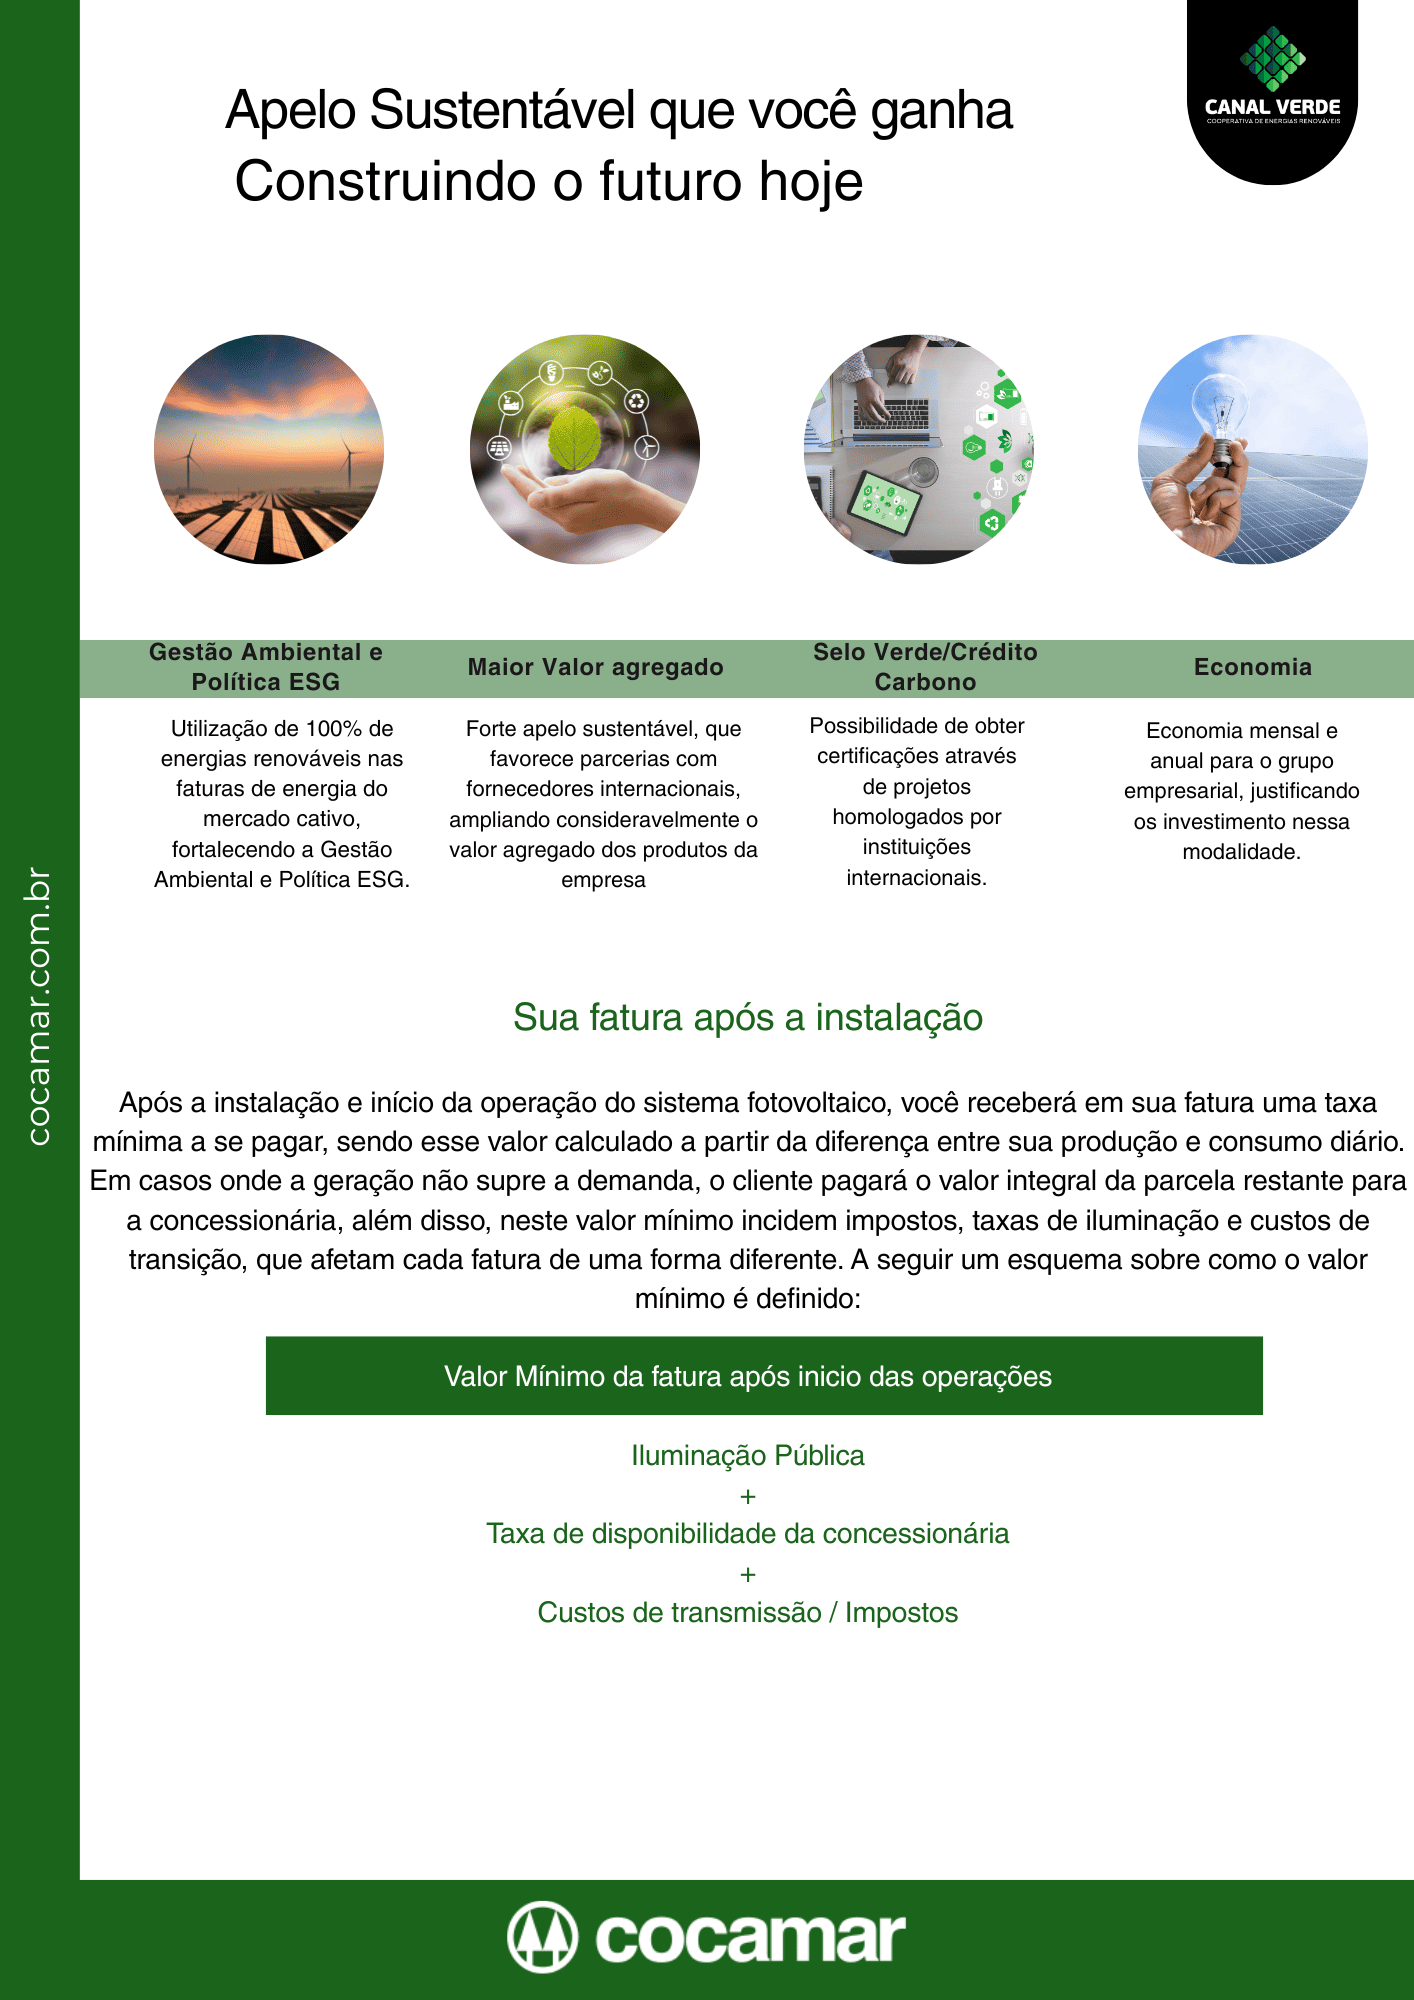
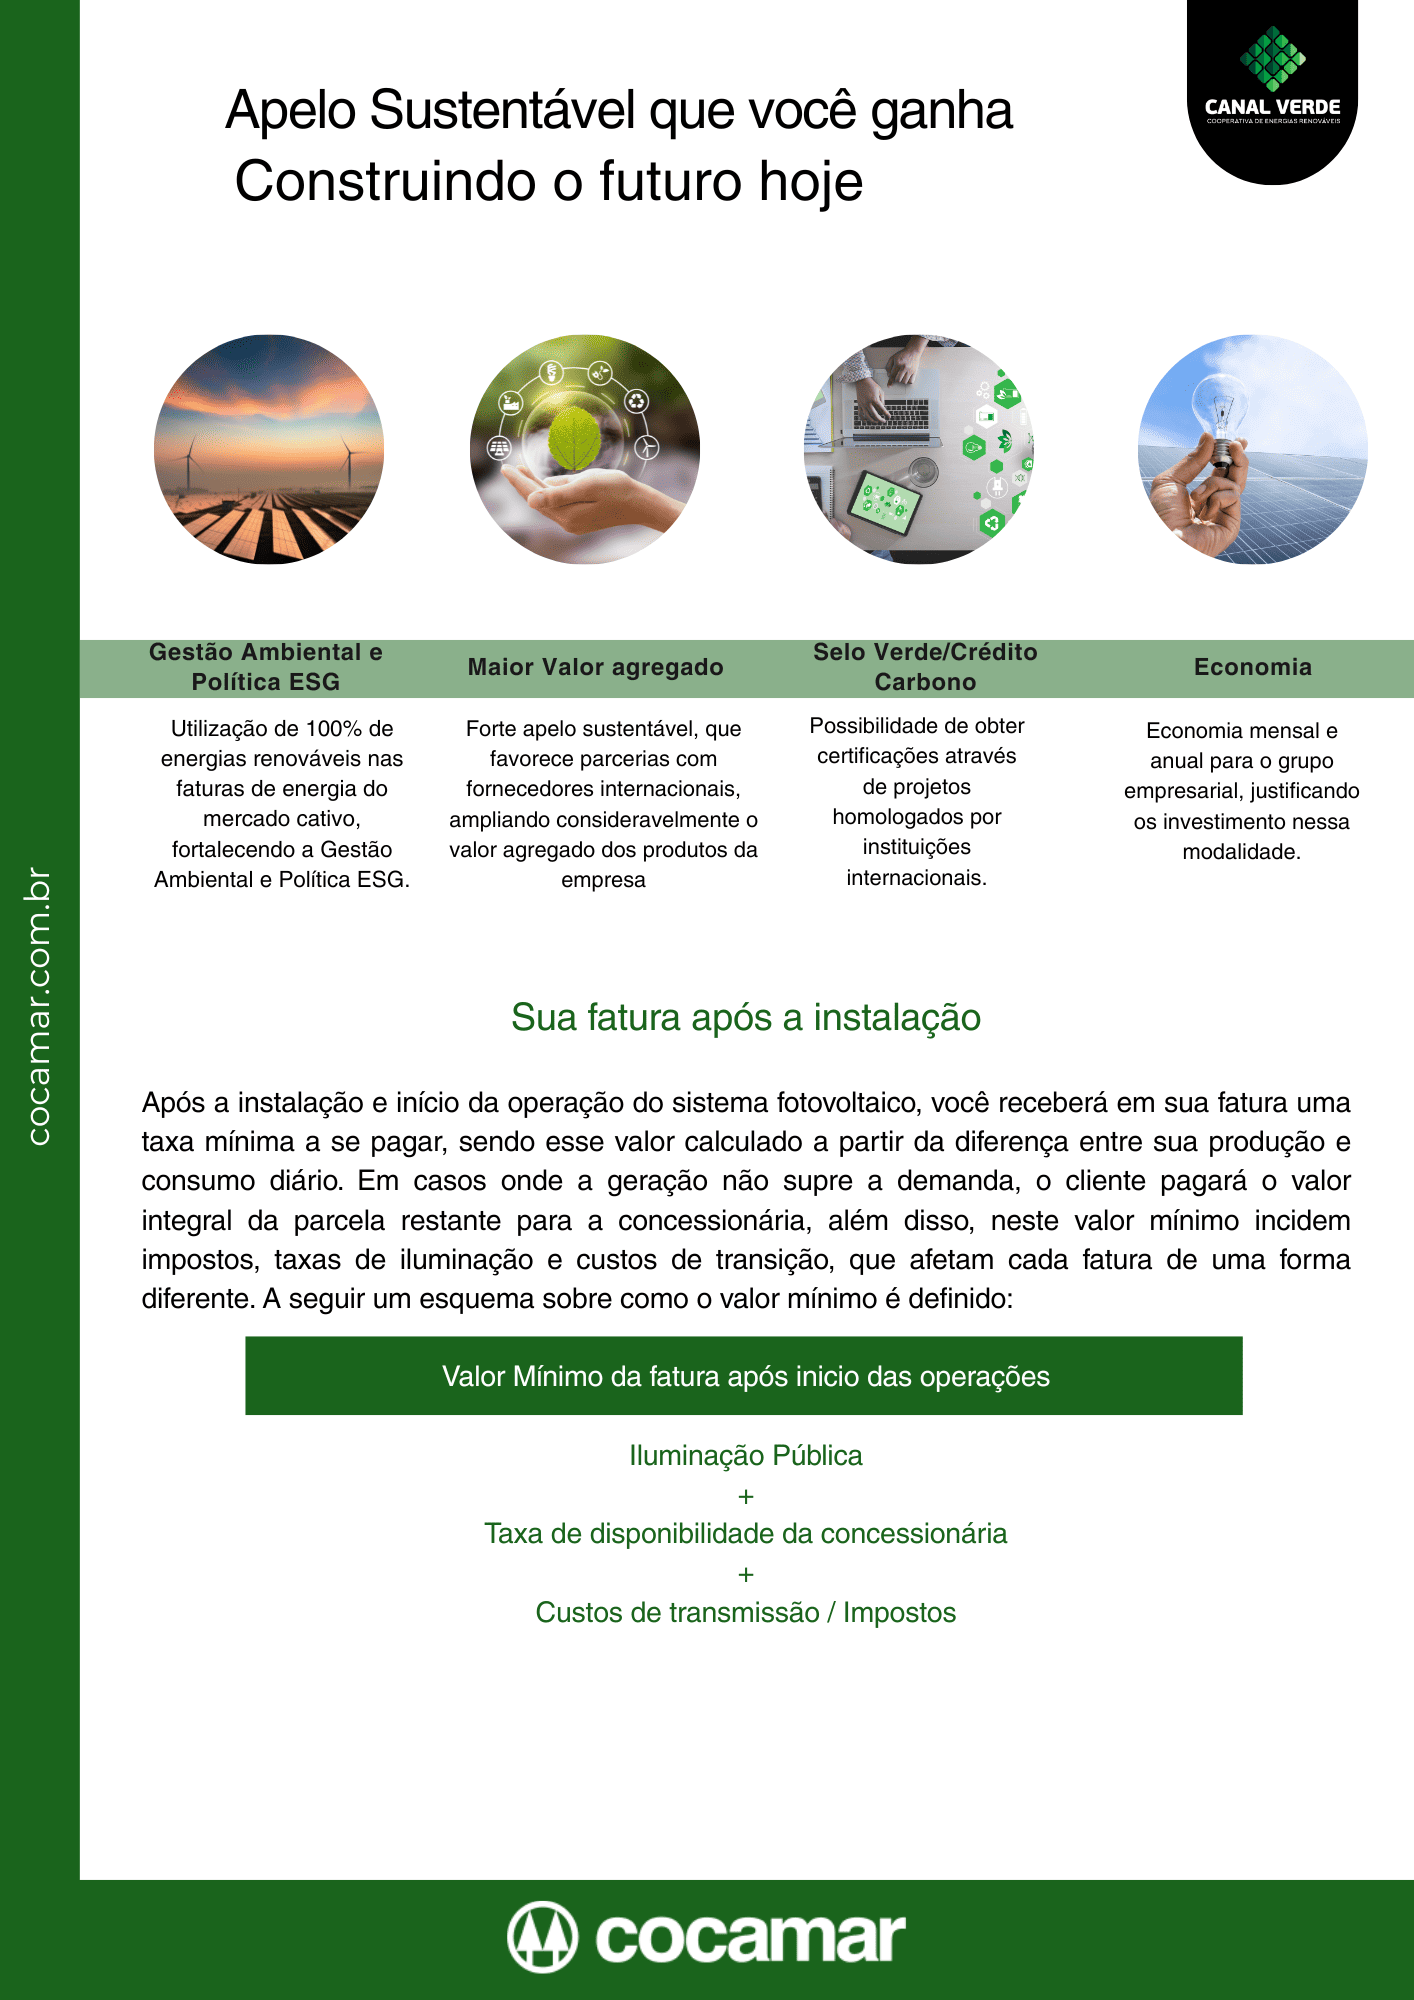
fd

diff --git a/gerar_pdf_coc.php b/gerar_pdf_coc.php
@@ -79,7 +79,7 @@ if ($_SERVER["REQUEST_METHOD"] == "POST") {
     $metrosOcupados = $qtdmodulosArredondado * 2.9;
 
     // Cálculos PGCV4
-    $peso = $qtdmodulosArredondado * 33;
+    $peso = (($qtdmodulosArredondado * 33) / $metrosOcupados);
     $percentualSolar = ($geracao / $media) * 100;
     $percentualSolarArredondado = round($percentualSolar);
     $mediaArredondado = round($media);
@@ -472,14 +472,33 @@ if ($_SERVER["REQUEST_METHOD"] == "POST") {
     $pdf->Text(34.2, 110, "Cidade: $cidade");
     $pdf->Text(34.2, 138, "UC $uc");
 
-    $pdf->Text(34.6, 160, "Disponibilidade de área necessária: $metrosOcupados_formatado m²");
-    $pdf->Text(34.6, 166.25, "Quantidade de Módulos Fotovoltáicos: $qtdmodulosArredondado Placas");
-    $pdf->Text(34.6, 172.5, "Potência do Projeto: $potenciaGerador_formatado kWp");
-    $pdf->Text(34.6, 178.75, "Média de Consumo: $media_formatado kWh");
-    $pdf->Text(34.6, 185, "Geração Estimada: $geracao_formatado kWh");
+    $pdf->Text(34.6, 160, "Disponibilidade de área necessária:");
+    $pdf->Text(34.6, 166.25, "Quantidade de Módulos Fotovoltáicos:");
+    $pdf->Text(34.6, 172.5, "Potência do Projeto:");
+    $pdf->Text(34.6, 178.75, "Média de Consumo:");
+    $pdf->Text(34.6, 185, "Geração Estimada:");
 
     $pdf->SetFont('helvetica', 'B', 12);
-    $pdf->Text(180, 280, "$dataAtual");
+    $pdf->Text(102, 160, "$metrosOcupados_formatado m²");
+    $pdf->Text(108, 166.25, "$qtdmodulosArredondado X " . round($potenciaModulo) . " W");
+    $pdf->Text(73, 172.5, "$potenciaGerador_formatado kWp");
+    $pdf->Text(74, 178.75, "$media_formatado kWh");
+    $pdf->Text(72, 185, "$geracao_formatado kWh");
+
+
+    $pdf->SetFont('helvetica', 'B', 12);
+    $pdf->Text(34.6, 220, "Data:");
+    $pdf->Text(34.6, 226.25, "Responsável Técnico:");
+    $pdf->Text(34.6, 232.5, "CREA-PR:");
+    $pdf->Text(34.6, 238.75, "CPF:");
+
+    $pdf->SetFont('helvetica', 12);
+    $pdf->Text(46, 220.05, "$dataAtual");
+    $pdf->Text(80, 226.30, "Eduardo Garcia Ribeiro");
+    $pdf->Text(56, 232.55, "160034/D");
+    $pdf->Text(46.6, 238.75, "085.271.859-46");
+
+    $pdf->SetFont('helvetica', 'B', 12);
 
 
     // Segunda Página (com a imagem genérica e gráfico)
@@ -618,22 +637,47 @@ if ($_SERVER["REQUEST_METHOD"] == "POST") {
     $larguraTotalGrafico = (count($labels) * $gap) + $barWidth; // Cálculo aproximado da largura total
     $pdf->Line($x - 2, $y, $x + $larguraTotalGrafico, $y);
 
+    // 1. Calcular as Médias
+    $countGer = count($dataGeracao);
+    $mediaGeracao = $countGer > 0 ? array_sum($dataGeracao) / $countGer : 0;
+
+    $countCon = count($dataConsumo);
+    $mediaConsumo = $countCon > 0 ? array_sum($dataConsumo) / $countCon : 0;
+
+    // 2. Calcular a altura Y das linhas (usando a mesma escala das barras)
+    // Altura em unidades
+    $hMediaGer = ($mediaGeracao / $maxValueGlobal) * $maxBarHeight;
+    $hMediaCon = ($mediaConsumo / $maxValueGlobal) * $maxBarHeight;
+
+    // Posição Y final
+    $yMediaGer = $y - $hMediaGer;
+    $yMediaCon = $y - $hMediaCon;
+
+    // 3. Configurar Estilo da Linha para Tracejado (Dash)
+    // O array 'dash' define o padrão: 2 unidades riscado, 2 unidades espaço
+    $pdf->SetLineStyle(array('width' => 0.2, 'cap' => 'butt', 'join' => 'miter', 'dash' => '3,3', 'color' => array(0, 0, 0)));
+
+    // 4. Desenhar Linha de Média GERAÇÃO (Verde)
+    if ($mediaGeracao > 0) {
+        $pdf->SetDrawColor($colGerR, $colGerG, $colGerB); // Cor Verde definida anteriormente
+        $pdf->Line($x, $yMediaGer, $x + $larguraTotalGrafico, $yMediaGer);
+    }
+
+    // 5. Desenhar Linha de Média CONSUMO (Vermelho)
+    if ($mediaConsumo > 0) {
+        $pdf->SetDrawColor($colConR, $colConG, $colConB); // Cor Vermelha definida anteriormente
+        $pdf->Line($x, $yMediaCon, $x + $larguraTotalGrafico, $yMediaCon);
+    }
+
+    // 6. IMPORTANTE: Restaurar o estilo da linha para Sólido
+    // Para não deixar a legenda ou as bordas seguintes tracejadas
+    $pdf->SetLineStyle(array('width' => 0.1, 'cap' => 'butt', 'join' => 'miter', 'dash' => 0, 'color' => array(0, 0, 0)));
     // --- LEGENDA SIMPLES (Essencial para gráficos de barras duplas) ---
     $legendX = $x + 10;
     $legendY = $y + 15;
 
     $pdf->SetFont('helvetica', '', 9);
 
-    // Item Geração
-    $pdf->SetDrawColor($colGerR, $colGerG, $colGerB);
-    $pdf->Rect($legendX, $legendY, 8, 4, 'D');
-    $pdf->SetTextColor(0, 0, 0);
-
-    $pdf->SetFillColor($colConR, $colConG, $colConB);
-    $pdf->Rect($legendX + 40, $legendY, 8, 4, 'F');
-    $pdf->SetTextColor(0, 0, 0);
-    $pdf->Text($legendX + 50, $legendY, utf8_decode("Consumo"));
-    $pdf->Text(43, 271, "Geração");
 
 
     // Terceira Página (com a imagem undo.jpeg)
@@ -683,7 +727,7 @@ if ($_SERVER["REQUEST_METHOD"] == "POST") {
     $pdf->Text(148, 43.5, "$qtdmodulosArredondado X " . round($potenciaModulo) . " W");
     $pdf->Text(149, 57, "$potenciaGerador_formatado kWp");
     $pdf->Text(152, 71.5, "$metrosOcupados_formatado m²");
-    $pdf->Text(152, 85, "$peso_formatado kg");
+    $pdf->Text(149, 85, "$peso_formatado Kg/m²");
     $pdf->Text(142, 98.5, "$media_formatado kWh mensal");
     $pdf->Text(142, 112, "$geracao_formatado kWh mensal");
     $pdf->SetTextColor(0, 0, 0);
@@ -709,10 +753,13 @@ if ($_SERVER["REQUEST_METHOD"] == "POST") {
     $pdf->Text(91, 45, "$gastoComGeradorAnoRs");
     $pdf->Text(93, 61.5, "$gastoComGeradorRs");
     $pdf->Text(135, 45, "$diferencaGastosAnoRs");
-    $pdf->Text(138, 61.5, "$diferencaGastosRs");
-    // CÓDIGO CORRIGIDO
-// ... (código anterior da página 5) ...
-    $pdf->Text(138, 61.5, "$diferencaGastosRs");
+    $pdf->Text(128, 61.5, "$diferencaGastosRs");
+
+    $porEconMensal = ($diferencaGastos / $precoFinal) * 100;
+    $pdf->SetFont('helvetica', 'B', 12);
+    $porEconMensals = ("(" . number_format($porEconMensal, 2, ',', '.') . '%' . ")");
+    $pdf->Text(152, 62, "$porEconMensals");
+
 
     // --- INÍCIO DA LÓGICA CORRIGIDA ---
 
@@ -898,6 +945,8 @@ if ($_SERVER["REQUEST_METHOD"] == "POST") {
     $pdf->SetFont('helvetica', 'B', 16);
     $pdf->SetTextColor(0, 0, 0);
 
+    $pdf->AddPage();  // Adiciona a primeira página
+    $pdf->Image('PGCOC5.png', 0, 0, 210, 297);
 
     // Sexta Página 
     $pdf->AddPage();  // Adiciona a primeira página
